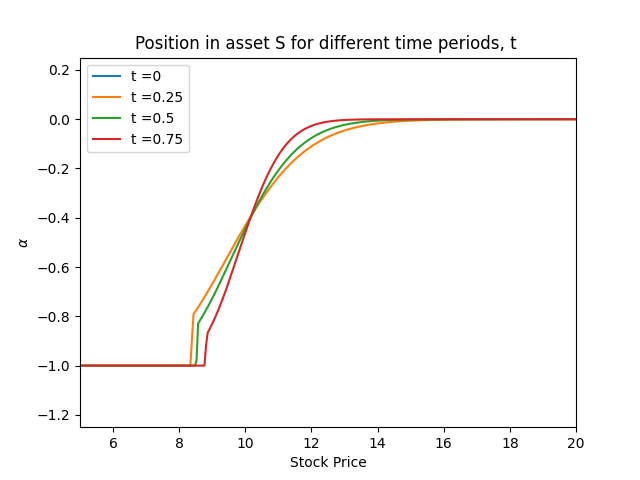
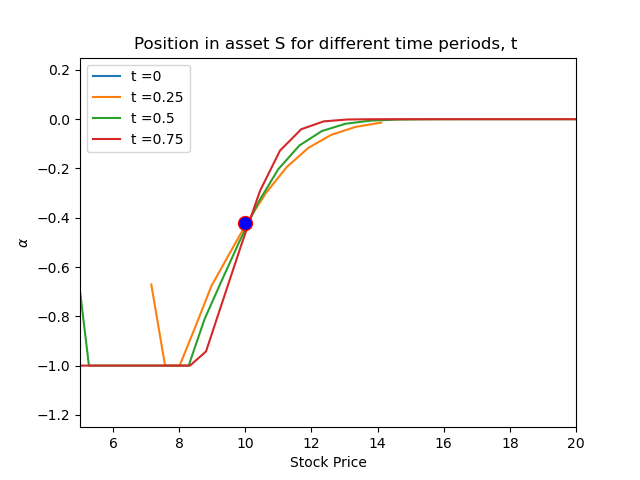
Adding Time 0 point

diff --git a/Hedging_Function_American.py b/Hedging_Function_American.py
@@ -66,6 +66,7 @@ def Hedge_Position  (TimeToExpiry, InitialPrice, mu, sigma, RiskfreeRate, TotalS
         #print(priceTree[:,int(i)])
         plt.plot(priceTree[:,int(i)], hedge_position[:,int(i)], label = f't ={hedgetimes[hedgetimes2.index(i)]}')
 
+    plt.plot(priceTree[0,0], hedge_position[0,0], marker="o", markersize=10, markeredgecolor="red", markerfacecolor="blue")
     plt.xlabel('Stock Price')
     plt.ylabel(r'$\alpha$')
     plt.xlim(5, 20)
@@ -94,6 +95,7 @@ def Hedge_Position  (TimeToExpiry, InitialPrice, mu, sigma, RiskfreeRate, TotalS
         #print(priceTree[:,int(i)])
         plt.plot(priceTree[:, int(i)], hedge_position_B[:,int(i)], label = f't ={hedgetimes[hedgetimes2.index(i)]}')
 
+    plt.plot(priceTree[0,0], hedge_position_B[0,0], marker="o", markersize=10, markeredgecolor="red", markerfacecolor="blue")
     plt.xlabel('S Price')
     plt.ylabel(r'$\beta$')
     plt.xlim(5, 20)
@@ -103,5 +105,5 @@ def Hedge_Position  (TimeToExpiry, InitialPrice, mu, sigma, RiskfreeRate, TotalS
     plt.savefig('Hedging_Strategy_Rf_Am.png')
 
 if __name__ == "__main__":
-        Hedge_Position(1, 10, 0.05, 0.2, 0.02, 5000, 10)
+        Hedge_Position(1, 10, 0.05, 0.2, 0.02, 50, 10)
         
